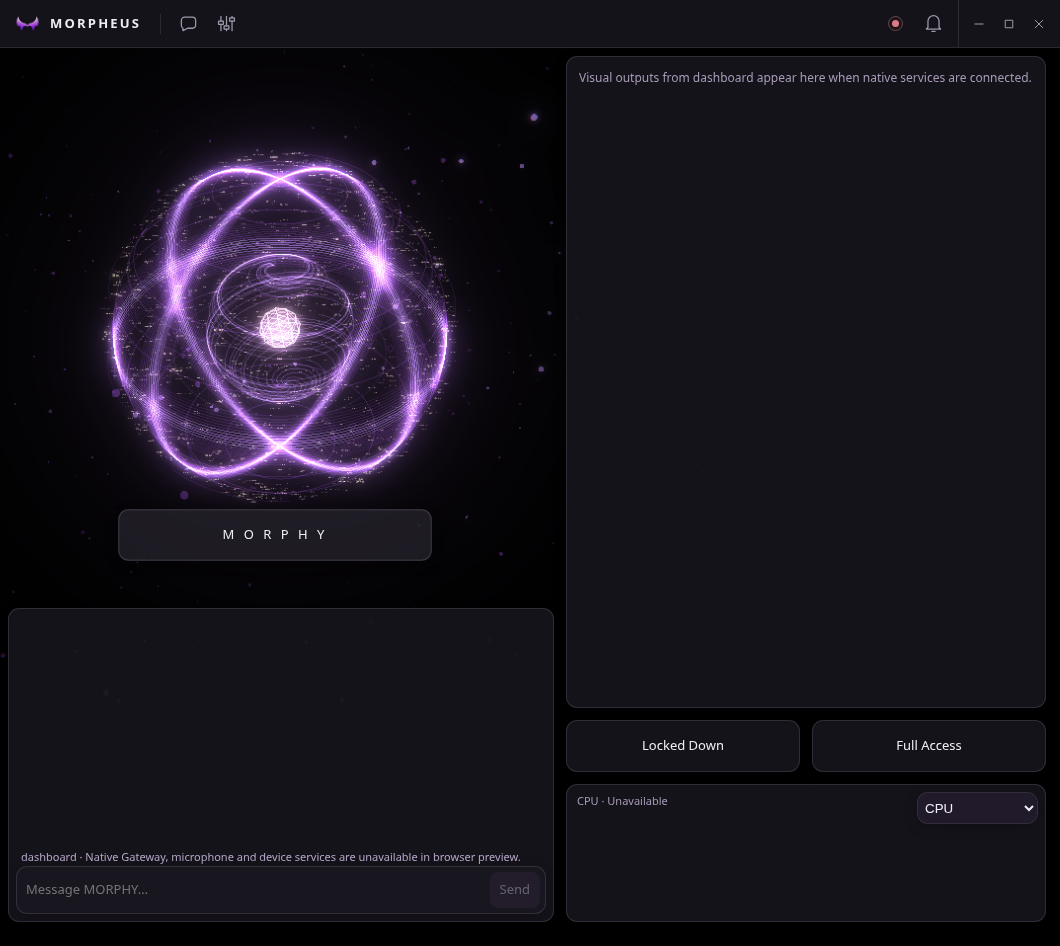
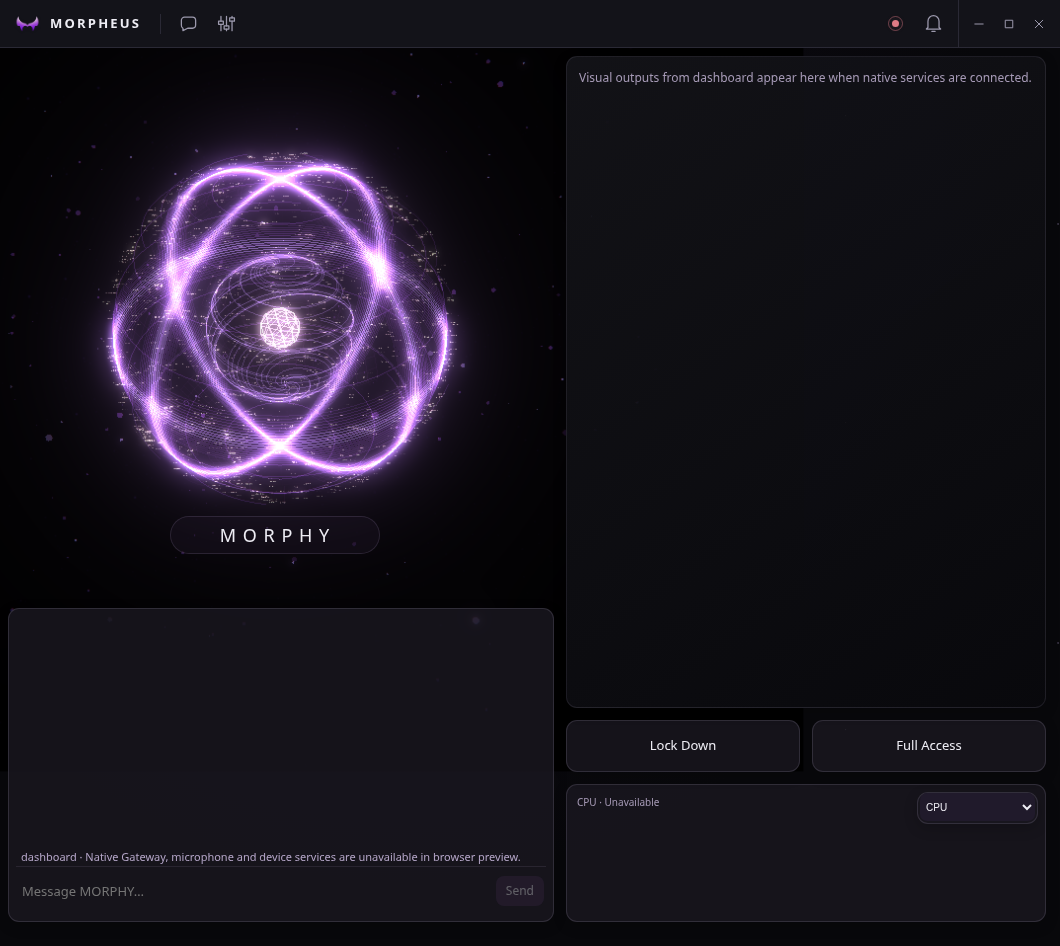
Refine shared dashboard voice, graphite panels and performance controls

diff --git a/ui/preview/dashboard-app.js b/ui/preview/dashboard-app.js
@@ -49,35 +49,50 @@ window.chrome?.webview?.addEventListener('message',event=>{
 });
 
 const voice=document.createElement('button');voice.textContent='M O R P H Y';voice.setAttribute('aria-label','Start or stop voice input');voicePanel.replaceChildren(voice);voice.onclick=()=>post({type:'dashboard-voice'});
-const transcript=document.createElement('div');transcript.className='dashboard-transcript';transcript.setAttribute('aria-live','polite');document.querySelector('.layout-item.orb').append(transcript);
+const transcript=document.createElement('div');transcript.className='dashboard-transcript';transcript.setAttribute('aria-live','polite');let transcriptClear;
+function updateTranscript(text){clearTimeout(transcriptClear);if(text){transcript.textContent=text;transcript.classList.add('visible');}else{transcript.classList.remove('visible');transcriptClear=setTimeout(()=>{transcript.textContent='';},180);}}
 let voiceState='idle',processing=false,speechPlaying=false;
 function syncActivity(){orb?.setActivity(speechPlaying||voiceState==='listening'?'speaking':processing||voiceState==='thinking'?'thinking':'idle');}
 window.chrome?.webview?.addEventListener('message',event=>{
  const data=event.data;
  if(data.type==='dashboard-voice-state'){
-  voiceState=data.state;voice.textContent=data.state==='idle'?'M O R P H Y':data.state==='listening'?'Listening':data.state==='starting'?'Starting…':'Thinking';
+  voiceState=data.state;voice.dataset.state=data.state;voice.title=data.state;
   voice.classList.toggle('listening',data.state==='listening');
-  if(data.transcript!==null&&data.transcript!==undefined)transcript.textContent=data.transcript;
+  if(data.transcript!==null&&data.transcript!==undefined)updateTranscript(data.transcript);
   syncActivity();
  }
- if(data.type==='dashboard-state'&&voiceState==='idle')voice.textContent=data.thinking?'Thinking':'M O R P H Y';
+ if(data.type==='dashboard-state'&&voiceState==='idle')voice.title=data.thinking?'Thinking':'Start or stop voice input';
 });
 const panel=id=>document.querySelector(`[data-id="${id}"]`);
 const graphPanel=panel('c4042c5a-5534-4d0a-84a1-3598ad644766');
 const selector=panel('5b7f1b40-9979-42fb-b4a2-f4adc3b7257b');
-const select=document.createElement('select');select.setAttribute('aria-label','Performance metric');for(const name of ['CPU','GPU','RAM']){const option=document.createElement('option');option.textContent=name;select.append(option);}selector.replaceChildren(select);
+const select=document.createElement('select');select.setAttribute('aria-label','Performance metric');for(const name of ['CPU','GPU','RAM','CPU, GPU, RAM']){const option=document.createElement('option');option.textContent=name;select.append(option);}selector.replaceChildren(select);
 const graph=document.createElementNS('http://www.w3.org/2000/svg','svg');graph.setAttribute('viewBox','0 0 460 80');graph.classList.add('dashboard-graph');graph.setAttribute('aria-label','90 second performance history');
-const line=document.createElementNS(graph.namespaceURI,'polyline');line.setAttribute('fill','none');line.setAttribute('stroke','#ac88d1');line.setAttribute('stroke-width','1.5');graph.append(line);graphPanel.replaceChildren(graph);
-const metricLabel=document.createElement('span');metricLabel.className='dashboard-metric-label';graphPanel.append(metricLabel);let history=[];
-function draw(){const key=select.value.toLowerCase();const last=history.at(-1),now=last?.timestamp;let points=[];for(const sample of history){const value=key==='gpu'?sample.gpu:sample[key]?.usagePercent;if(typeof value==='number')points.push(`${460-(now-sample.timestamp)/90000*460},${78-value*.7}`);}line.setAttribute('points',points.join(' '));const value=key==='gpu'?last?.gpu:last?.[key]?.usagePercent;metricLabel.textContent=`${select.value} · ${typeof value==='number'?value.toFixed(1)+'%':'Unavailable'}`;}
+const colors={cpu:'#b79bde',gpu:'#70bfae',ram:'#d1a970'};
+const lines={};for(const key of Object.keys(colors)){const line=document.createElementNS(graph.namespaceURI,'path');line.setAttribute('fill','none');line.setAttribute('stroke',colors[key]);line.setAttribute('stroke-width','1.5');line.dataset.metric=key;graph.append(line);lines[key]=line;}graphPanel.replaceChildren(graph);
+const metricLabel=document.createElement('span');metricLabel.className='dashboard-metric-label';graphPanel.append(metricLabel);
+const legend=document.createElement('div');legend.className='dashboard-legend';graphPanel.append(legend);let history=[];
+function draw(){
+ const all=select.value==='CPU, GPU, RAM',key=select.value.toLowerCase(),last=history.at(-1),now=last?.timestamp;
+ legend.replaceChildren();legend.hidden=!all;
+ for(const metric of Object.keys(lines)){
+  const visible=all||key===metric;lines[metric].style.display=visible?'':'none';let path='',connected=false;
+  for(const sample of history){const value=metric==='gpu'?sample.gpu:sample[metric]?.usagePercent;if(Number.isFinite(value)){path+=`${connected?'L':'M'}${460-(now-sample.timestamp)/90000*460},${78-Math.max(0,Math.min(100,value))*.7} `;connected=true;}else connected=false;}
+  lines[metric].setAttribute('d',path);
+  const value=metric==='gpu'?last?.gpu:last?.[metric]?.usagePercent;
+  const label=`${metric.toUpperCase()} · ${Number.isFinite(value)?value.toFixed(1)+'%':'Unavailable'}`;
+  if(all){const item=document.createElement('span');item.textContent=label;item.style.color=colors[metric];legend.append(item);}else if(visible)metricLabel.textContent=label;
+ }
+ if(all)metricLabel.textContent='System usage';
+}
 select.onchange=draw;
-for(const [id,preset,label] of [['cddfd844-44a2-4718-9daf-bd79980b1b25','Strict','Locked Down'],['9e86debb-bc91-4f32-8305-8fc3415f7c64','Open','Full Access']]){const box=panel(id);const button=document.createElement('button');button.textContent=label;button.dataset.preset=preset;button.onclick=()=>post({type:'dashboard-preset',preset});box.replaceChildren(button);}
-const visuals=panel('4734678d-ab2a-4d1f-b0f9-d85e88decb48');visuals.replaceChildren();const gallery=document.createElement('div');gallery.className='dashboard-gallery';visuals.append(gallery);
+for(const [id,preset,label] of [['cddfd844-44a2-4718-9daf-bd79980b1b25','Strict','Lock Down'],['9e86debb-bc91-4f32-8305-8fc3415f7c64','Open','Full Access']]){const box=panel(id);const button=document.createElement('button');button.textContent=label;button.dataset.preset=preset;button.onclick=()=>post({type:'dashboard-preset',preset});box.replaceChildren(button);}
+const visuals=panel('4734678d-ab2a-4d1f-b0f9-d85e88decb48');visuals.classList.add('dashboard-visual-board');visuals.replaceChildren(transcript);const gallery=document.createElement('div');gallery.className='dashboard-gallery';visuals.append(gallery);
 const viewer=document.createElement('dialog');viewer.className='dashboard-viewer';const fullImage=document.createElement('img');fullImage.alt='Dashboard visual';const close=document.createElement('button');close.textContent='Close';close.onclick=()=>viewer.close();viewer.append(close,fullImage);document.body.append(viewer);let mediaSignature='';
 window.chrome?.webview?.addEventListener('message',event=>{
  const data=event.data;
  if(data.type==='dashboard-metrics'){history.push(data);history=history.filter(sample=>sample.timestamp>=data.timestamp-90000);draw();}
- if(data.type==='dashboard-permissions')for(const button of document.querySelectorAll('[data-preset]'))button.setAttribute('aria-pressed',String(button.dataset.preset===data.preset));
+ if(data.type==='dashboard-permissions')for(const button of document.querySelectorAll('[data-preset]')){if(['Strict','Open'].includes(data.preset))button.setAttribute('aria-pressed',String(button.dataset.preset===data.preset));else button.removeAttribute('aria-pressed');};
  if(data.type==='dashboard-state'){
   const urls=[];for(const response of data.responses||[])for(const match of response.text.matchAll(/!\[([^\]]*)\]\((https:\/\/[^\s)]+)\)/g))urls.push({alt:match[1],url:match[2]});
   const signature=JSON.stringify(urls);if(signature===mediaSignature)return;mediaSignature=signature;gallery.replaceChildren();
@@ -85,7 +100,7 @@ window.chrome?.webview?.addEventListener('message',event=>{
  }
 });
 
-window.chrome?.webview?.addEventListener('message',event=>{if(event.data.type==='dashboard-speaking'){speechPlaying=!!event.data.active;voice.textContent=speechPlaying?'Speaking':processing?'Thinking':'M O R P H Y';syncActivity();}});
+window.chrome?.webview?.addEventListener('message',event=>{if(event.data.type==='dashboard-speaking'){speechPlaying=!!event.data.active;voice.title=speechPlaying?'Speaking':processing?'Thinking':'Start or stop voice input';syncActivity();}});
 
 function formatResponse(node,text){
  node.replaceChildren();let code=null;

diff --git a/ui/preview/dashboard.css b/ui/preview/dashboard.css
@@ -29,3 +29,26 @@
 .dashboard-viewer img{display:block;max-width:85vw;max-height:80vh;object-fit:contain}.dashboard-viewer{max-width:95vw}
 
 .dashboard-gallery{font-size:12px;color:#a69ab6}.dashboard-input input:disabled{opacity:.6}
+
+/* Shared dashboard refinement: quiet graphite, no additional canvas filters. */
+.dashboard-stage{background:radial-gradient(ellipse at 38% 20%,#29153d30,transparent 65%),#08080b}
+.dashboard-stage::before{content:"";position:absolute;inset:0;pointer-events:none;background-image:radial-gradient(circle at 12% 22%,#d9c7ec66 0 .65px,transparent 1px),radial-gradient(circle at 72% 42%,#a493be44 0 .7px,transparent 1px),radial-gradient(circle at 43% 77%,#cab8e544 0 .6px,transparent 1px);background-size:271px 307px,389px 419px,457px 337px}
+#home [data-id="f1c2c205-561e-4170-9c37-1cf7d9391808"]{background:none;border:0;box-shadow:none;display:flex;align-items:center;justify-content:center}
+#home [data-id="f1c2c205-561e-4170-9c37-1cf7d9391808"] button{width:210px;max-width:100%;height:38px;padding:4px 12px;font-size:18px;letter-spacing:1px;background:#21172a55;border-color:#a28bb530;border-radius:20px;transition:color .18s,text-shadow .18s,background .18s}
+#home [data-id="afc02d75-13a1-406d-8543-52cbc5e1e9b0"]{border:0;border-top:1px solid #a18bb324;border-radius:0;background:transparent;box-shadow:none}
+.dashboard-input{align-items:center;padding:5px 2px}
+.dashboard-input input{height:100%;font-size:13px}
+.dashboard-input button{height:30px;border-radius:8px;font-size:12px}
+#home .dashboard-visual-board{background:linear-gradient(145deg,#141419e8,#09090ded);border-color:#a096b323}
+.dashboard-transcript{z-index:2;inset:0;width:auto;display:flex;align-items:center;justify-content:center;padding:28px;font-size:clamp(18px,2.1vw,24px);font-weight:300;letter-spacing:.04em;opacity:0;transition:opacity .18s;overflow:auto}
+.dashboard-transcript.visible{opacity:1}
+.dashboard-visual-board:has(.dashboard-transcript.visible) .dashboard-gallery{opacity:0;pointer-events:none}
+.dashboard-gallery{transition:opacity .18s}
+#home [data-preset][aria-pressed=true]{color:#94d9af;background:#17352688;border-color:#6dae8755}
+#home [data-preset][aria-pressed=false]{color:#dd969e;background:#351e2688;border-color:#b16c7955}
+.dashboard-metric-label{font-size:10px;top:10px}
+#home .layout-item select{display:block;width:calc(100% - 4px);height:28px;margin:0 2px;padding:2px;font-size:10px;border-radius:7px}
+.dashboard-legend{position:absolute;left:12px;top:29px;display:flex;gap:12px;font-size:9px}
+.dashboard-legend[hidden]{display:none}
+.dashboard-graph:has(~ .dashboard-legend:not([hidden])){top:47px;height:calc(100% - 53px)}
+@media(prefers-reduced-motion:reduce){.dashboard-transcript,.dashboard-gallery,#home .listening{transition:none}}

diff --git a/scripts/test-dashboard-bridge.py b/scripts/test-dashboard-bridge.py
@@ -21,9 +21,21 @@ with sync_playwright() as p:
  page.evaluate("()=>deliver({type:'dashboard-state',ready:true,thinking:false,responses:[{id:'reply',text:'## Answer\\n**Streamed** text',streaming:false}]})")
  assert page.locator('.dashboard-response strong').inner_text()=='Streamed'
  page.evaluate("()=>deliver({type:'dashboard-voice-state',state:'listening',transcript:'Live words'})");assert page.locator('.dashboard-transcript').inner_text()=='Live words'
- page.evaluate("()=>deliver({type:'dashboard-voice-state',state:'thinking',transcript:''})");assert page.locator('.dashboard-transcript').inner_text()==''
+ page.screenshot(path=str(out/'listening-fixture.png'))
+ assert page.get_by_role('button',name='Start or stop voice input').inner_text()=='M O R P H Y'
+ page.evaluate("()=>deliver({type:'dashboard-voice-state',state:'thinking',transcript:''})");assert page.locator('.dashboard-transcript').evaluate('(node)=>!node.classList.contains("visible")')
  page.evaluate("()=>deliver({type:'dashboard-metrics',timestamp:1000,cpu:{usagePercent:25},ram:{usagePercent:50},gpu:20})");assert '25.0%' in page.locator('.dashboard-graph + span').inner_text()
  page.get_by_label('Performance metric').select_option(label='RAM');assert '50.0%' in page.locator('.dashboard-graph + span').inner_text()
+ page.get_by_label('Performance metric').select_option(label='CPU, GPU, RAM')
+ assert page.locator('.dashboard-graph path').evaluate_all('(lines)=>lines.every(line=>line.style.display!=="none" && line.getAttribute("d"))')
+ assert page.locator('.dashboard-visual-board .dashboard-transcript').count()==1
+ page.wait_for_function("document.querySelector('.dashboard-transcript').textContent === ''")
+ assert 'CPU · 25.0%' in page.locator('.dashboard-legend').inner_text()
+ page.evaluate("()=>deliver({type:'dashboard-permissions',preset:'Strict'})")
+ assert page.get_by_role('button',name='Lock Down',exact=True).get_attribute('aria-pressed')=='true'
+ assert page.get_by_role('button',name='Full Access',exact=True).get_attribute('aria-pressed')=='false'
+ page.evaluate("()=>deliver({type:'dashboard-permissions',preset:'Open'})")
+ assert page.get_by_role('button',name='Full Access',exact=True).get_attribute('aria-pressed')=='true'
  page.get_by_role('button',name='Full Access',exact=True).click();assert page.evaluate('()=>fixtureMessages.at(-1).preset')=='Open'
  page.evaluate("()=>deliver({type:'dashboard-state',ready:true,thinking:true,responses:[]})")
  page.locator('.dashboard-input button',has_text='Stop').click();assert page.evaluate('()=>fixtureMessages.at(-1).type')=='dashboard-stop'

diff --git a/components/windows/src/OpenClaw.Tray.WinUI/Controls/DashboardHome.Voice.cs b/components/windows/src/OpenClaw.Tray.WinUI/Controls/DashboardHome.Voice.cs
@@ -3,6 +3,7 @@ namespace OpenClawTray.Controls;
 
 public sealed partial class DashboardHome
 {
+    private const int DashboardSilenceSeconds = 5;
     private CancellationTokenSource? _voice;
     private async Task ToggleVoiceAsync()
     {
@@ -21,16 +22,17 @@ public sealed partial class DashboardHome
             if (Current()) Post(new { type = "dashboard-voice-state", state, transcript });
         });
         bool detectedSpeech = false;
-        void SpeechChanged(bool speaking) { detectedSpeech = speaking; if (Current()) capture.CancelAfter(speaking ? Timeout.Infinite : 10000); }
+        void SpeechChanged(bool speaking) { detectedSpeech = speaking; if (Current()) capture.CancelAfter(speaking ? Timeout.Infinite : DashboardSilenceSeconds * 1000); }
         Owner.StopChatSpeaking();
         service.SpeakingChanged += SpeechChanged;
         try
         {
             Update("starting");
             var result = await service.ListenOnceAsync(new SttListenArgs { TimeoutMs = 120000 }, capture.Token,
-                text => Update("listening", text), null, silenceTimeoutSeconds: 10,
-                onRecordingStarted: () => { capture.CancelAfter(detectedSpeech ? Timeout.Infinite : 10000); Update("listening"); });
+                text => Update("listening", text), null, silenceTimeoutSeconds: DashboardSilenceSeconds,
+                onRecordingStarted: () => { capture.CancelAfter(detectedSpeech ? Timeout.Infinite : DashboardSilenceSeconds * 1000); Update("listening"); });
             if (!Current() || string.IsNullOrWhiteSpace(result.Text)) return;
+            Update("thinking");
             // A user stop may flush finalized speech. Navigation/provider changes never submit it.
             await provider.SendMessageAsync(session, result.Text, _lifetime.Token);
             Update("thinking", "");
